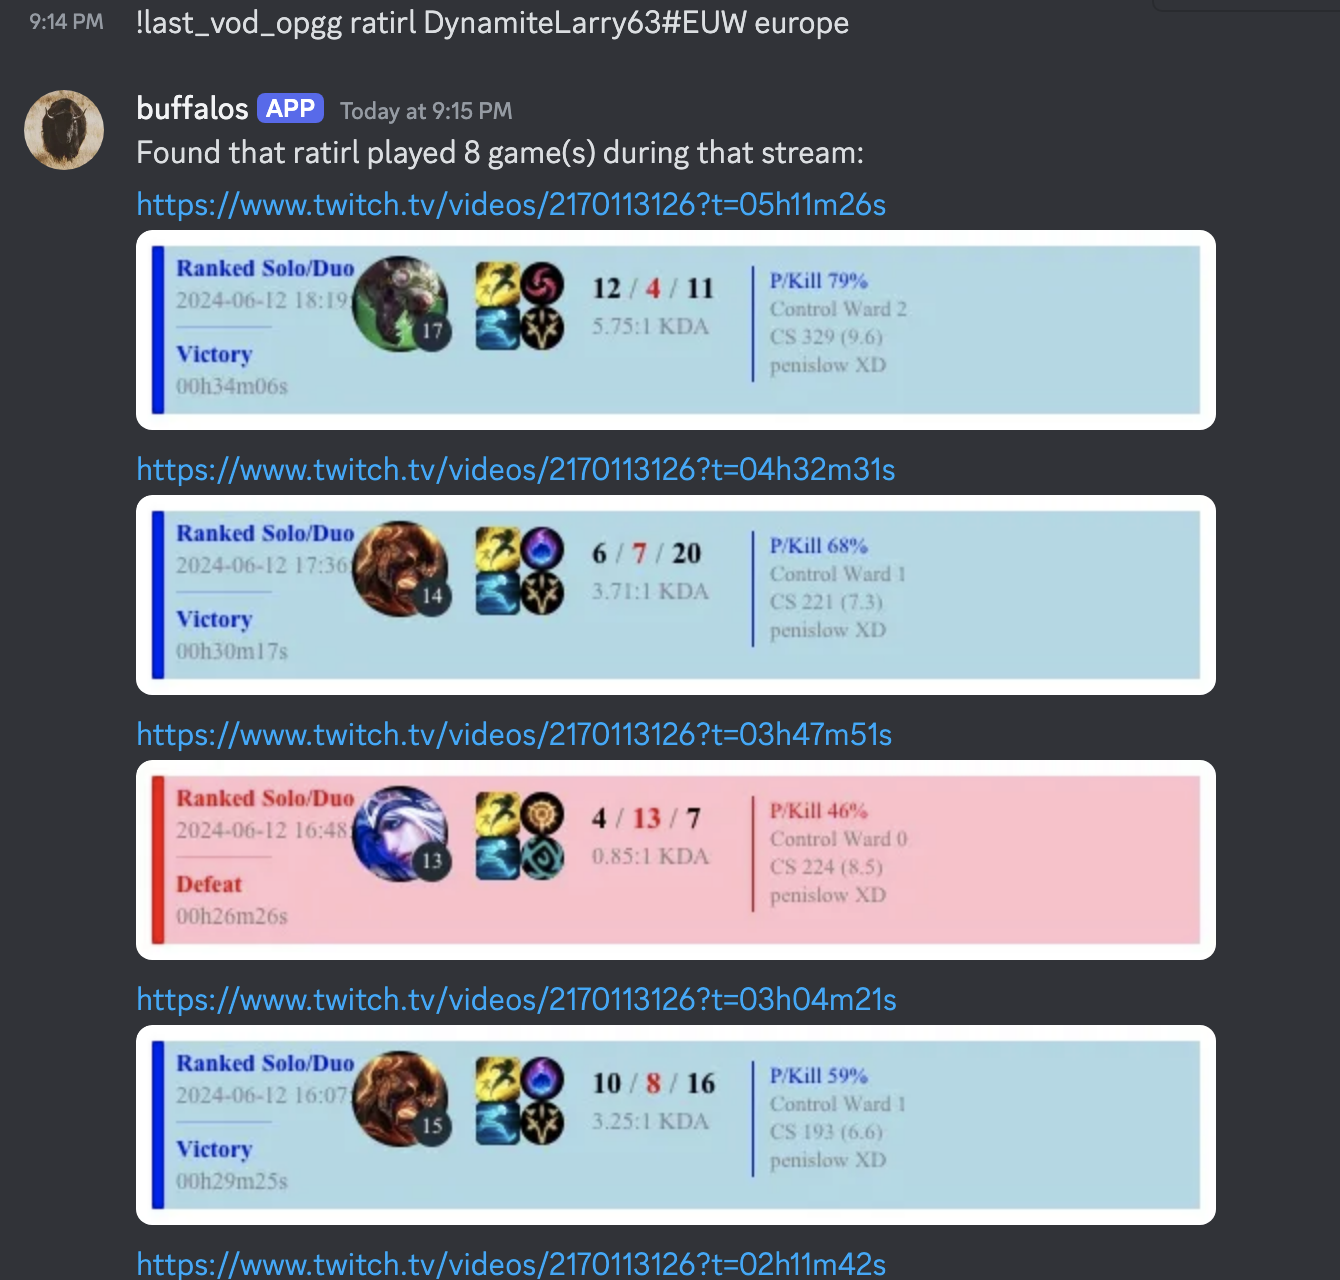
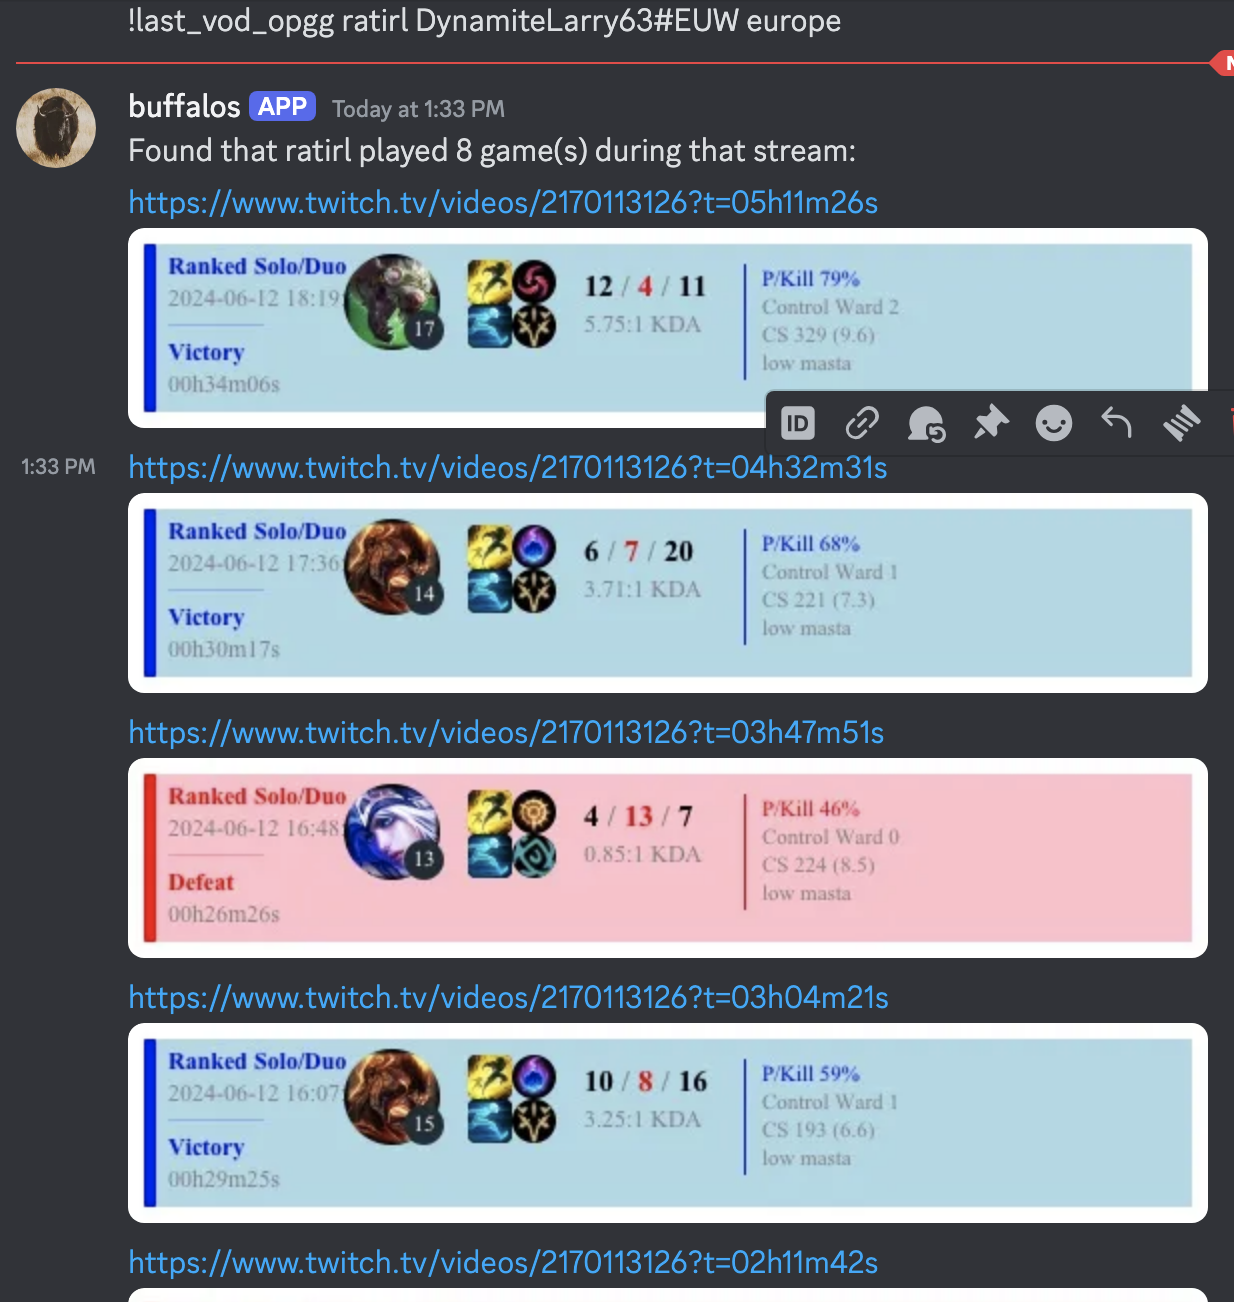
changing some stuff to be, a bit more mature lol...

diff --git a/utils/helpers.py b/utils/helpers.py
@@ -234,7 +234,7 @@ def construct_match(puuid, unprocessed_response, matchid):
                                             {cs_div}
                                         </div>
                                         <div class='avg-tier'>
-                                            <div style='position: relative;'>penislow XD</div>
+                                            <div style='position: relative;'>low masta</div>
                                         </div>
                                     </div>
                                 </div>
